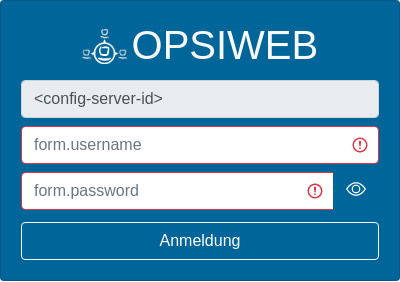
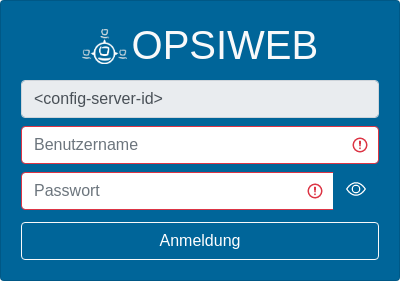
[chg] customise screenshots texts
Former-commit-id: d5d0ec36d6b8712ddd295c26f1b0ae02d932f878

Changed region(s): [[0.09, 0.6525, 0.36, 0.7092], [0.09, 0.4823, 0.36, 0.539]]

diff --git a/opsiweb/scripts/take_screenshots4Doc.test.js b/opsiweb/scripts/take_screenshots4Doc.test.js
@@ -64,12 +64,12 @@ test.describe('How to', () => {
     await callStoryId(page, 'form-f-login', 'f-login')
     const component = await page.locator('[data-testid="FLogin"]')
     await component.evaluate(() => { document.querySelector('.projectTitle').innerHTML = 'OPSIWEB' })
-    await component.evaluate(() => { document.querySelector('.username').innerHTML = 'Username' })
-    await component.evaluate(() => { document.querySelector('.password').innerHTML = 'Password' })
+    await component.evaluate(() => { document.querySelector('.username').placeholder = 'Username' })
+    await component.evaluate(() => { document.querySelector('.password').placeholder = 'Password' })
     await component.evaluate(() => { document.querySelector('.login').innerHTML = 'Login' })
     await component.screenshot({ path: './screenshots/en/opsiweb_login.png' })
-    await component.evaluate(() => { document.querySelector('.username').innerHTML = 'Benutzername' })
-    await component.evaluate(() => { document.querySelector('.password').innerHTML = 'Passwort' })
+    await component.evaluate(() => { document.querySelector('.username').placeholder = 'Benutzername' })
+    await component.evaluate(() => { document.querySelector('.password').placeholder = 'Passwort' })
     await component.evaluate(() => { document.querySelector('.login').innerHTML = 'Anmeldung' })
     await component.screenshot({ path: './screenshots/de/opsiweb_login.png' })
   })
